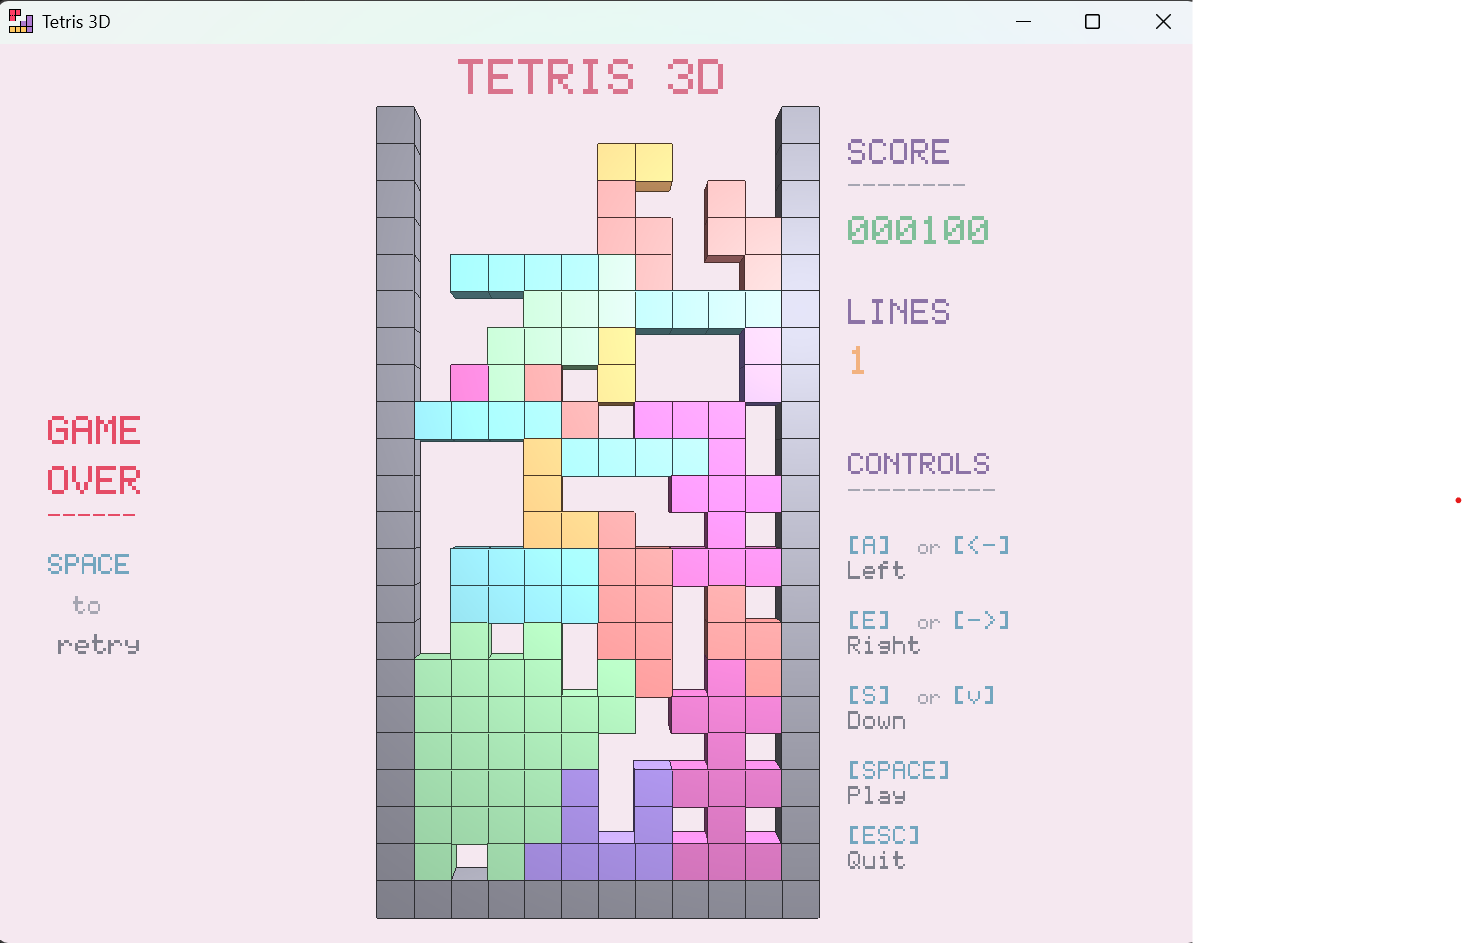
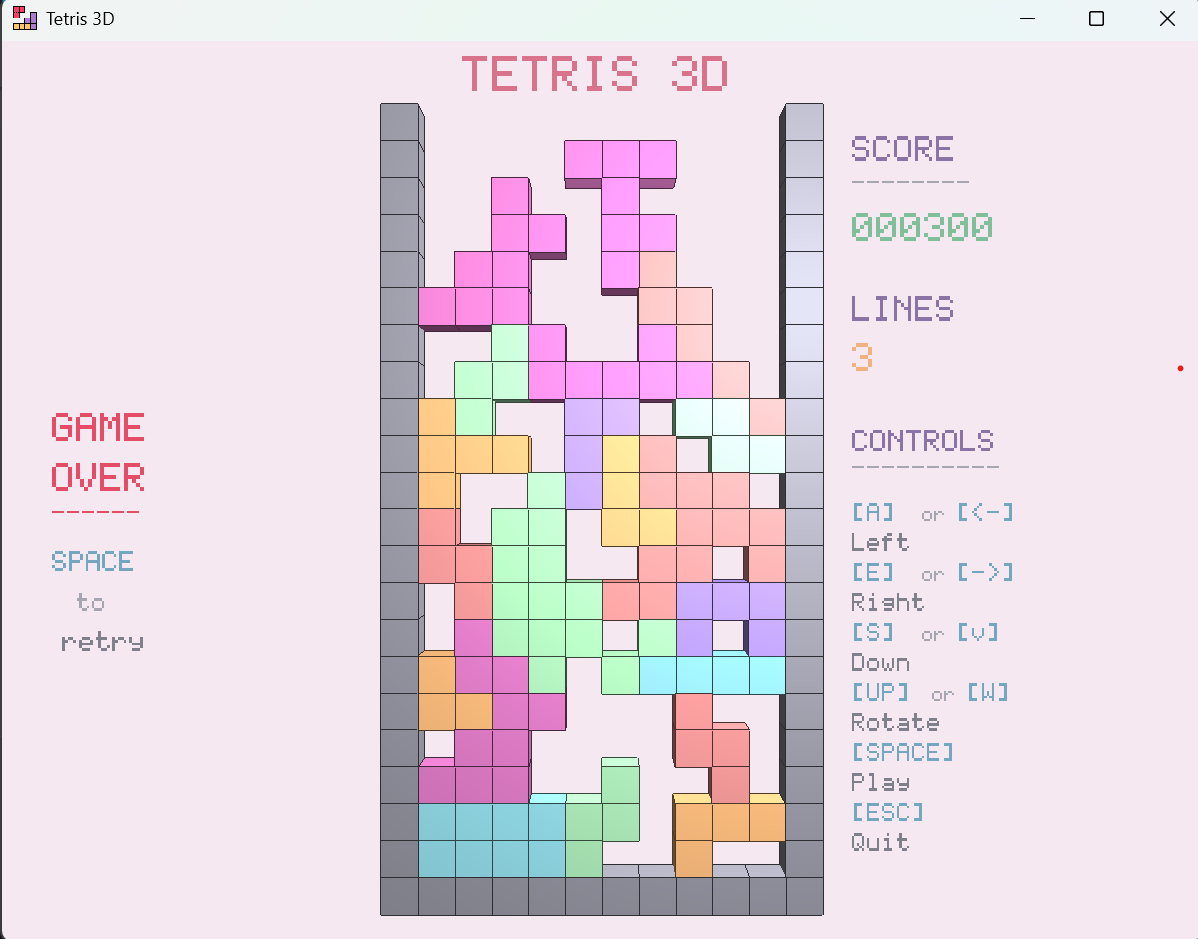
Update README and demo media to include rotation feature

diff --git a/README.md b/README.md
@@ -15,7 +15,7 @@ Une implémentation 3D du jeu classique Tetris construite avec C++, OpenGL et GL
 ## Fonctionnalités
 
 - **Graphismes 3D** - Rendu avec OpenGL utilisant des shaders personnalisés et l'éclairage Phong
-- **Gameplay** - Mouvement des pièces en temps réel avec détection de collision
+- **Gameplay** - Mouvement des pièces en temps réel avec détection de collision et rotation
 - **Système de Score** - Suivi des points avec bonus pour les lignes effacées
 - **Interface Personnalisée** - Rendu de texte basé sur bitmap
 - **Contrôles** - Entrée clavier
@@ -62,6 +62,7 @@ cmake --build .
 | <kbd>A</kbd> ou <kbd>←</kbd> | Déplacer à gauche |
 | <kbd>E</kbd> ou <kbd>→</kbd> | Déplacer à droite |
 | <kbd>S</kbd> ou <kbd>↓</kbd> | Chute rapide |
+| <kbd>W</kbd> ou <kbd>↑</kbd> | Rotation |
 | <kbd>ÉCHAP</kbd> | Quitter |
 
 ## Structure du Projet
@@ -105,7 +106,7 @@ Tetris3D/
 
 #### `Piece` - Logique des Tetrominos
 - 6 types de pièces (I, T, S, Z, J, L)
-- Mouvement et positionnement
+- Mouvement, positionnement et rotation
 
 
 #### `Cube` - Primitive 3D
@@ -122,11 +123,12 @@ Tetris3D/
 
 1. **Apparition** - Une nouvelle pièce apparaît en haut au centre
 2. **Chute** - La pièce descend automatiquement
-3. **Vérification de Collision** - Validation contre les limites et les pièces verrouillées
-4. **Verrouillage** - La pièce devient partie du plateau
-5. **Effacement des Lignes** - Suppression des lignes horizontales complètes
-6. **Score** - Attribution des points (100 par ligne, ×2 pour plusieurs)
-7. **Répétition** ou **Game Over**
+3. **Rotation** - Possibilité de faire pivoter la pièce
+4. **Vérification de Collision** - Validation contre les limites et les pièces verrouillées
+5. **Verrouillage** - La pièce devient partie du plateau
+6. **Effacement des Lignes** - Suppression des lignes horizontales complètes
+7. **Score** - Attribution des points (100 par ligne, ×2 pour plusieurs)
+8. **Répétition** ou **Game Over**
 
 
 ### Dimensions du Plateau
